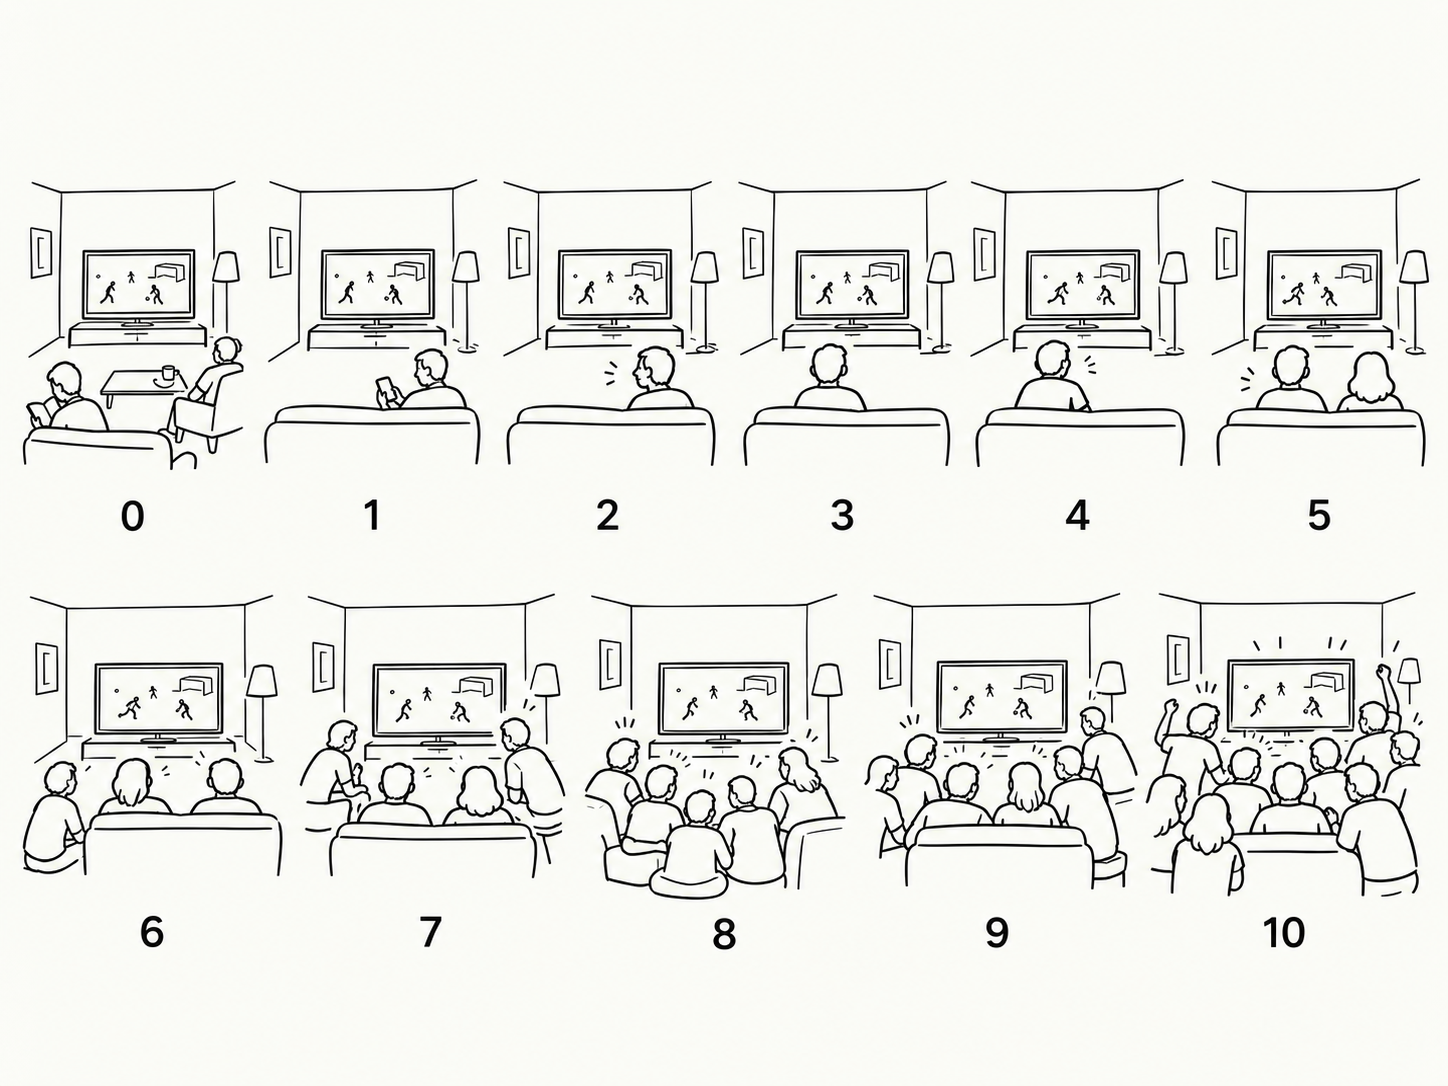
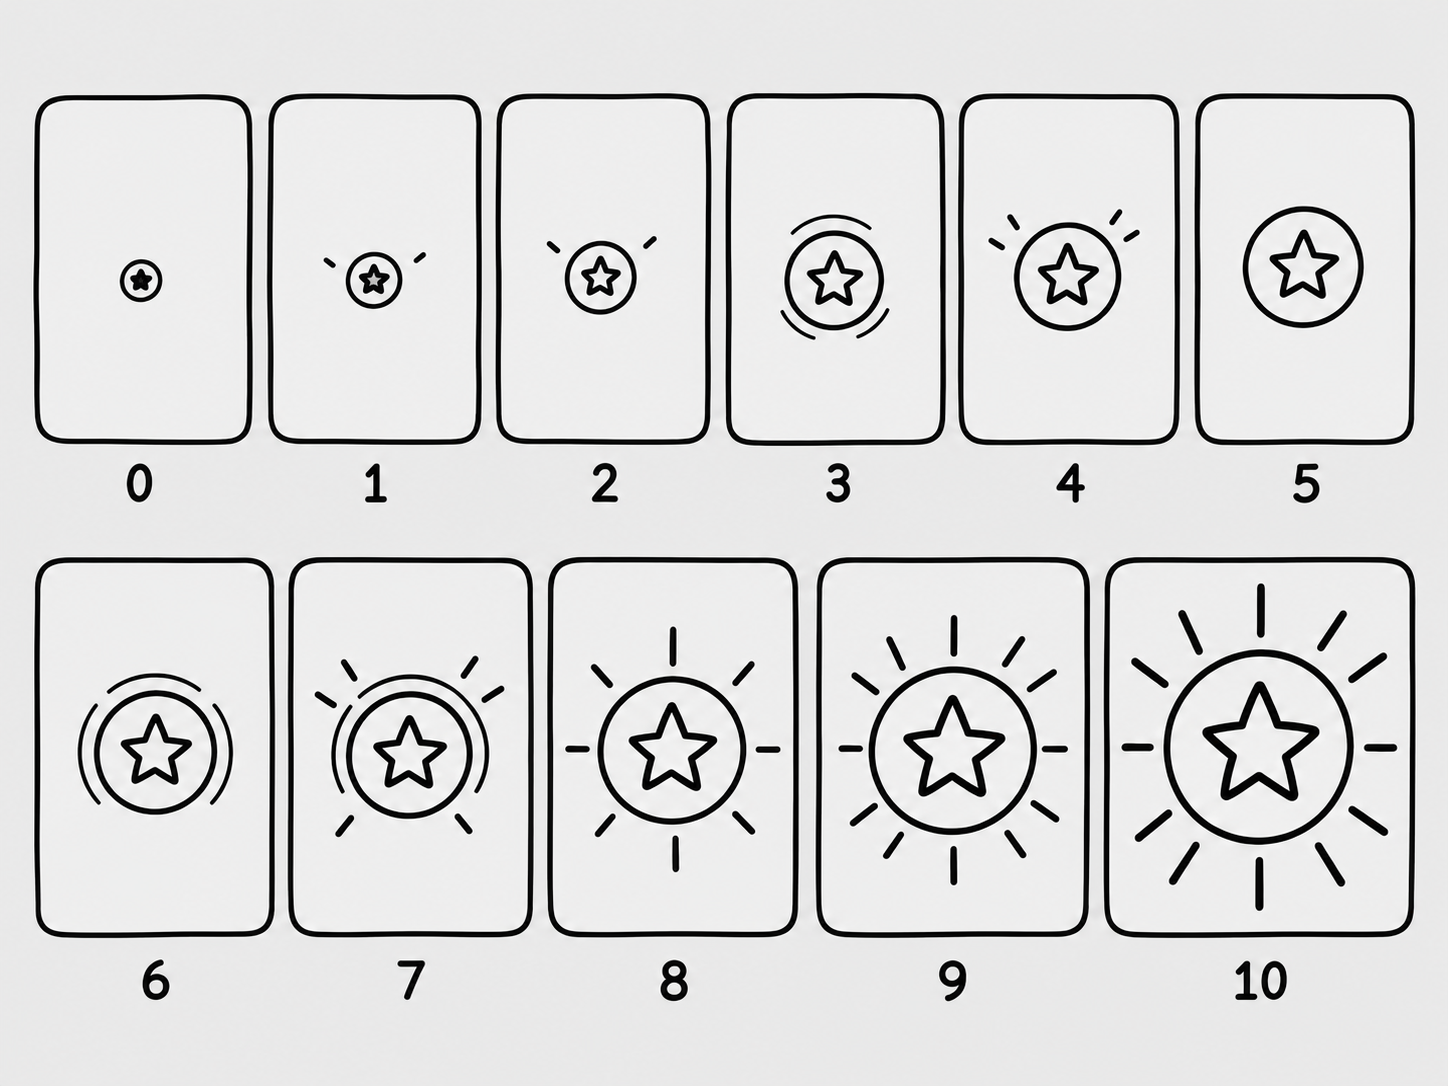
Update rating artwork and isolate sprite crops

diff --git a/src/RatingSlider.tsx b/src/RatingSlider.tsx
@@ -1,8 +1,10 @@
 import { Minus, Plus } from "lucide-react";
+import { useId } from "react";
 
 type RatingKind = "Mood" | "Enjoyment" | "Importance";
 
 function RatingPicture({ value, kind }: { value: number; kind: RatingKind }) {
+  const clipId = useId();
   const score = Math.max(0, Math.min(10, Math.round(value)));
   if (kind === "Mood") {
     return (
@@ -19,23 +21,43 @@ function RatingPicture({ value, kind }: { value: number; kind: RatingKind }) {
   const top = score < 6;
   const sheetWidth = kind === "Enjoyment" ? 1491 : 1448;
   const sheetHeight = kind === "Enjoyment" ? 1055 : 1086;
-  const cellWidth = sheetWidth / (top ? 6 : 5);
-  const inset = kind === "Enjoyment" && top ? 32 : 16;
-  const x = (top ? score : score - 6) * cellWidth + inset;
-  const y = kind === "Enjoyment" ? (top ? 90 : 540) : (top ? 150 : 565);
-  const height = kind === "Enjoyment" ? (top ? 315 : 340) : (top ? 330 : 340);
+  const crop = (() => {
+    if (kind === "Importance") {
+      const topX = [35, 270, 502, 735, 960, 1195];
+      const topWidths = [216, 210, 207, 210, 220, 220];
+      const bottomX = [35, 290, 543, 817, 1106];
+      const bottomWidths = [238, 240, 255, 273, 309];
+      return top
+        ? { x: topX[score], y: 95, width: topWidths[score], height: 350 }
+        : { x: bottomX[score - 6], y: 559, width: bottomWidths[score - 6], height: 380 };
+    }
+    const cellWidth = sheetWidth / (top ? 6 : 5);
+    const inset = 12;
+    return {
+      x: (top ? score : score - 6) * cellWidth + inset,
+      y: top ? 100 : 548,
+      width: cellWidth - inset * 2,
+      height: top ? 300 : 320,
+    };
+  })();
 
   return (
     <svg
       className="rating-expression rating-sheet-picture"
-      viewBox={`${x} ${y} ${cellWidth - inset * 2} ${height}`}
+      viewBox={`${crop.x} ${crop.y} ${crop.width} ${crop.height}`}
       role="img"
       aria-label={`${kind} ${score} out of 10`}
     >
+      <defs>
+        <clipPath id={clipId} clipPathUnits="userSpaceOnUse">
+          <rect x={crop.x} y={crop.y} width={crop.width} height={crop.height} />
+        </clipPath>
+      </defs>
       <image
         href={`/ratings/${kind.toLowerCase()}.png`}
         width={sheetWidth}
         height={sheetHeight}
+        clipPath={`url(#${clipId})`}
       />
     </svg>
   );

diff --git a/src/style.css b/src/style.css
@@ -1755,6 +1755,9 @@ h1:focus {
   color: var(--section);
   object-fit: contain;
 }
+.rating-sheet-picture {
+  overflow: hidden;
+}
 .rating-end-faces {
   display: flex;
   margin-top: 26px;
